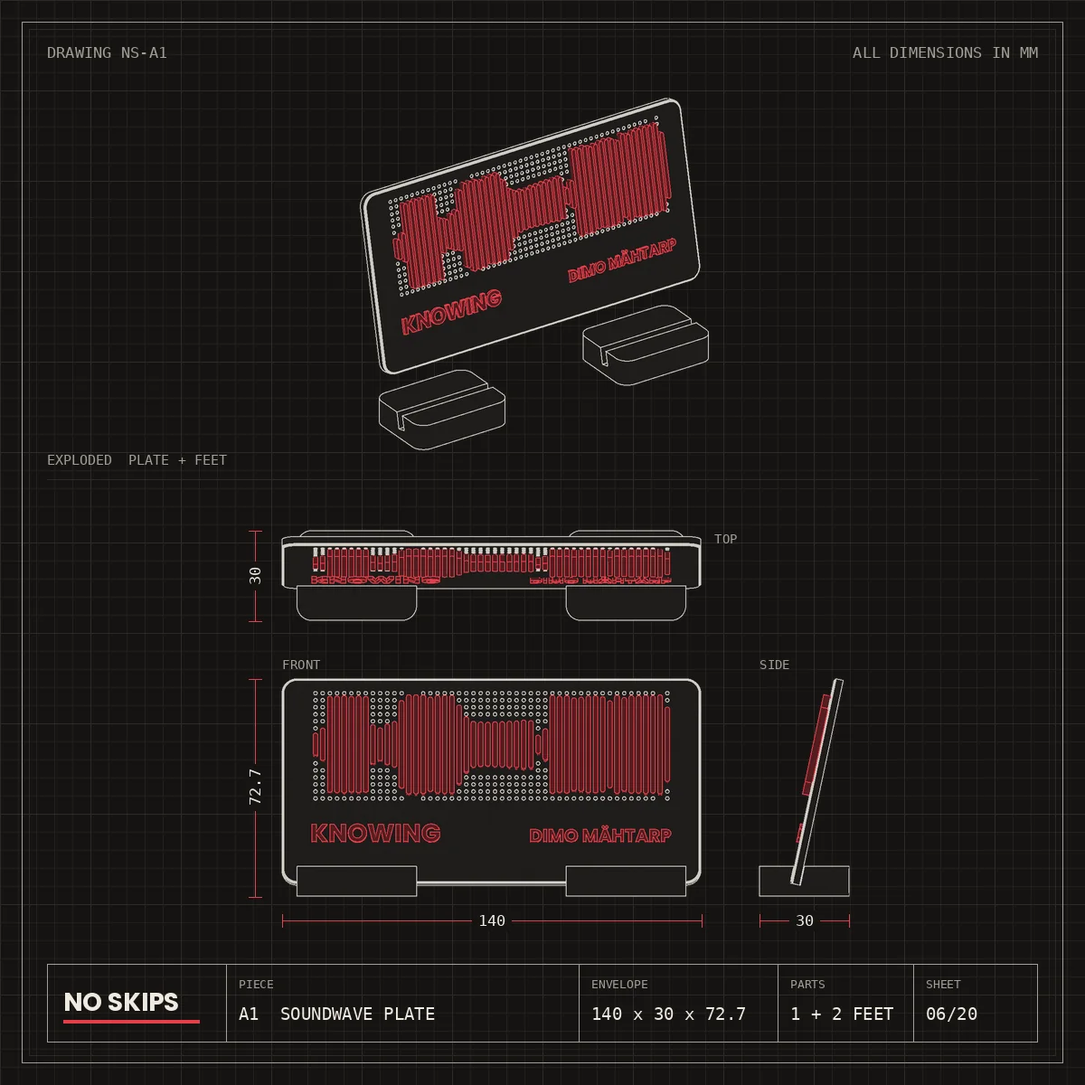
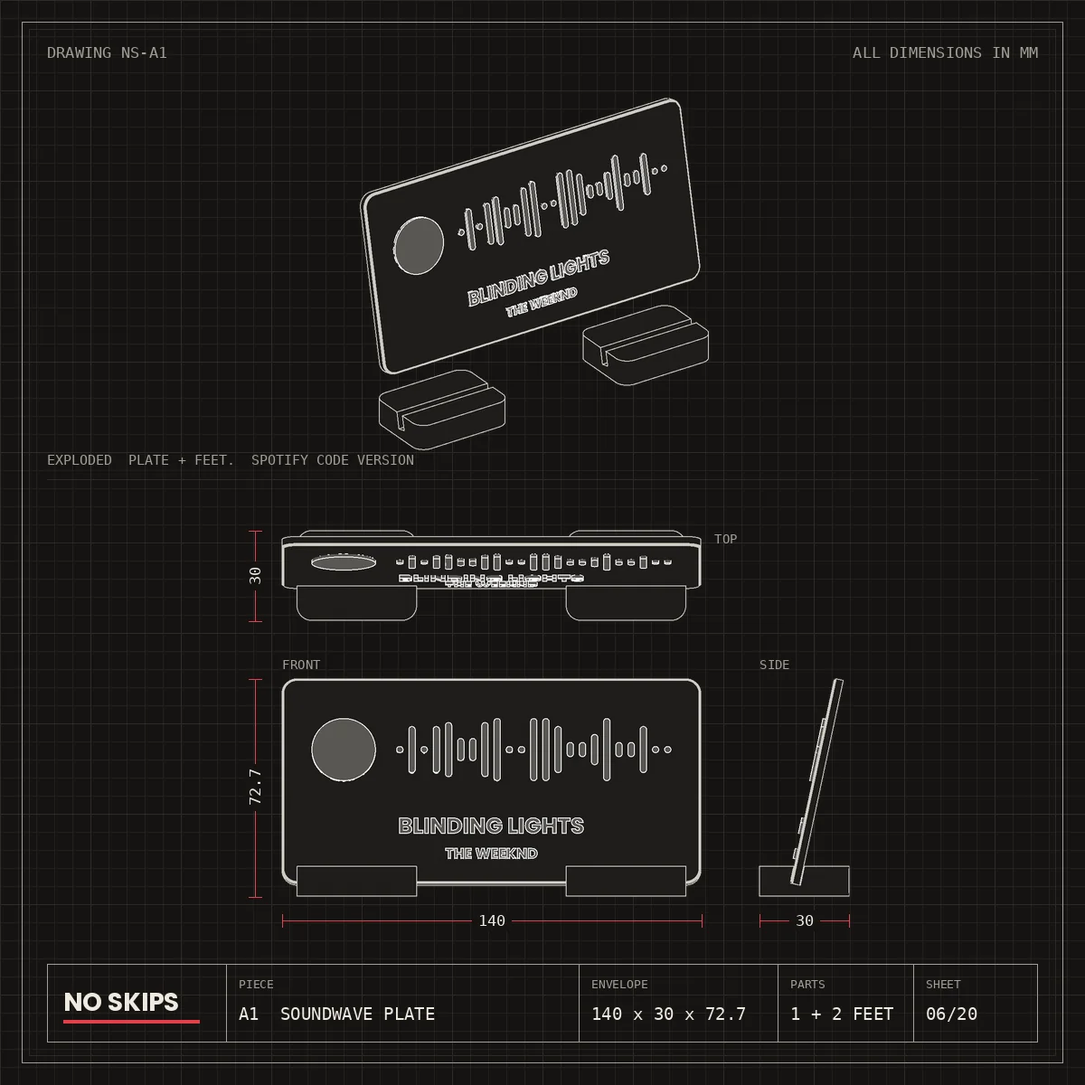
Spotify Code option for Soundwave Plate and Song Tag, terms page, form fixes
- A1 and A5: choose Spotify Code (default) or sound wave, with an explainer
- Song Tag now 80 x 30 mm: code or wave on the front, song and artist or own name on the back, live character limits
- Personalised fields start empty with examples as placeholders; order is blocked until filled and valid
- Terms dialog with 48-hour replacement window, grievance contact, privacy; agreement tick before ordering
- Fix: elements with the hidden attribute (gift note) were still shown
- New renders and blueprints for A1 and A5

Claude-Session: https://claude.ai/code/session_012J3bj3tc8WhaTG95FXikk2

diff --git a/index.html b/index.html
@@ -220,6 +220,8 @@ footer .row{display:flex;justify-content:space-between;gap:16px;flex-wrap:wrap}
 .pv .pa{fill:var(--pa)}
 .pv .pas{fill:none;stroke:var(--pa)}
 .pv .pn{fill:var(--p-neutral)}
+.pv .piv{fill:var(--p-ivory)}
+.pv text.piv{fill:var(--p-ivory)}
 .pv .pns{fill:none;stroke:var(--p-neutral)}
 .pv .pd{fill:var(--p-dot);opacity:.55}
 .pv .hole{fill:var(--stage)}
@@ -266,7 +268,25 @@ dialog::backdrop{background:rgba(8,7,6,.66)}
 .terms{display:grid;grid-template-columns:repeat(auto-fit,minmax(220px,1fr));gap:20px;margin-top:clamp(28px,4vw,44px);border-top:1px solid var(--line);padding-top:24px}
 .terms h3{font-size:15px;font-stretch:112%;margin-bottom:8px}
 .terms p{margin:0;font-size:14px;color:var(--muted)}
+[hidden]{display:none!important}
 .note{font-size:12px;color:var(--muted);margin:0}
+.field .note{margin-top:2px}
+.flabel{display:flex;justify-content:space-between;gap:10px;align-items:baseline}
+.cnt{font-family:var(--mono);font-size:11px;color:var(--muted)}
+.cnt.over{color:#E5404A;font-weight:700}
+.field input.bad{border-color:#E5404A}
+.warn{font-size:13px;line-height:1.45;color:#E5404A;margin:0;padding:10px 12px;border:1px solid #E5404A;border-radius:8px}
+.hintbtn{background:none;border:0;padding:0;font-size:13px;text-decoration:underline;text-underline-offset:3px;color:var(--ink);cursor:pointer;align-self:flex-start}
+.hintbox{font-size:13px;line-height:1.5;color:var(--ink);background:var(--surface);border:1px solid var(--line);border-radius:10px;padding:12px 14px;display:grid;gap:8px}
+.hintbox p{margin:0}.hintbox b{font-weight:700}
+.agree{display:flex;gap:10px;align-items:flex-start;font-size:13px;line-height:1.45;cursor:pointer}
+.agree input{margin-top:3px;width:16px;height:16px;flex:none}
+.agree button{background:none;border:0;padding:0;font:inherit;text-decoration:underline;text-underline-offset:3px;color:inherit;cursor:pointer}
+.btn[aria-disabled="true"],.btn:disabled{opacity:.42;pointer-events:none}
+.tc{padding:clamp(22px,4vw,40px);max-width:760px;margin:0 auto;position:relative}
+.tc h2{margin:0 0 6px}.tc .upd{font-family:var(--mono);font-size:11px;color:var(--muted);margin:0 0 18px}
+.tc h3{font-size:15px;margin:22px 0 6px}.tc p,.tc li{font-size:14px;line-height:1.6;color:var(--ink)}.tc ul{padding-left:18px;margin:6px 0}
+.tc .close{position:sticky;top:0;float:right}
 .linkish{background:none;border:0;padding:0;text-decoration:underline;text-underline-offset:3px;font-size:14px;align-self:flex-start}
 @media (max-width:760px){.pd-grid{grid-template-columns:1fr}.pd-stage{min-height:0}}
 #list{margin:0 0 0 auto;height:100dvh;max-height:100dvh;width:min(440px,100vw);border-radius:0}
@@ -402,13 +422,13 @@ dialog::backdrop{background:rgba(8,7,6,.66)}
     <h2>How to order</h2>
     <ol class="steps">
       <li><h3>Pick your pieces</h3><p>Open a product, add your song, name or date, and choose an ivory or red accent.</p></li>
-      <li><h3>Send it on WhatsApp</h3><p>One tap opens WhatsApp with your order already written out. For song pieces, share the track or a link in the chat.</p></li>
+      <li><h3>Send it on WhatsApp</h3><p>One tap opens WhatsApp with your order already written out. For song pieces, the song title and artist, or the Spotify link, go in the message.</p></li>
       <li><h3>Approve and pay</h3><p>Personalised pieces get a preview before anything is printed. Payment is by UPI.</p></li>
       <li><h3>Printed, numbered, shipped</h3><p>Every piece is printed to order in Bengaluru. The code on the box opens the build steps. Shipping is quoted in the chat.</p></li>
     </ol>
     <div class="terms" id="terms">
       <div><h3>Shipping and packing</h3><p>Every order ships in a No Skips box with tissue and a build card. Pieces in one order share a box. Shipping is charged on top and quoted in the chat with the dispatch date.</p></div>
-      <div><h3>Replacements, not returns</h3><p>Pieces are made to order, so we do not take returns. If something arrives damaged or with a print fault, we replace it.</p></div>
+      <div><h3>Replacements within 48 hours</h3><p>Pieces are made to order, so we do not take returns. If something arrives broken, faulty or not as approved, message us within 48 hours of delivery with photos and an unboxing video and we replace it. <button class="linkish" type="button" data-terms>Read the full terms</button></p></div>
       <div><h3>Checked before it ships</h3><p>Every personalised piece is reviewed by hand against your order, and you see the preview before it is printed.</p></div>
       <div><h3>Not a toy</h3><p>Small parts. Keep away from children under 3.</p></div>
     </div>
@@ -424,8 +444,8 @@ dialog::backdrop{background:rgba(8,7,6,.66)}
 
 <footer>
   <div class="wrap">
-    <div class="row"><span>No Skips. Printed to order in Bengaluru.</span><span>Instagram @cassettebydimo</span><span>Prices in INR, shipping extra.</span></div>
-    <div class="row" style="margin-top:10px"><span>Product pictures and blueprints are drawn from the actual print files, dimensions in millimetres. Song titles and artist names on example pieces show how personalisation looks. No Skips is an independent maker and is not affiliated with or endorsed by any artist. Artist names and silhouettes on coins and tags are used to show the artist the piece is about, and are not an endorsement.</span></div>
+    <div class="row"><span>No Skips. Printed to order in Bengaluru.</span><span>Instagram @cassettebydimo</span><span>Prices in INR, shipping extra.</span><span><button class="linkish" type="button" data-terms>Terms, replacements and privacy</button></span></div>
+    <div class="row" style="margin-top:10px"><span>Product pictures and blueprints are drawn from the actual print files, dimensions in millimetres. Song titles and artist names on example pieces show how personalisation looks. No Skips is an independent maker and is not affiliated with or endorsed by any artist. Artist names and silhouettes on coins and tags are used to show the artist the piece is about, and are not an endorsement. Spotify and Spotify Codes are trademarks of Spotify AB. No Skips is not affiliated with Spotify.</span></div>
   </div>
 </footer>
 
@@ -436,6 +456,7 @@ dialog::backdrop{background:rgba(8,7,6,.66)}
 
 <dialog id="pd" aria-labelledby="pdName"></dialog>
 <dialog id="list" aria-labelledby="listTitle"></dialog>
+<dialog id="tcd" aria-labelledby="tcTitle"></dialog>
 
 <script>
 /* ---------------- settings: edit these ---------------- */
@@ -463,6 +484,37 @@ const up=s=>esc(String(s).toUpperCase());
 const pad2=n=>String(n).padStart(2,"0");
 const $=id=>document.getElementById(id);
 
+/* ---------------- Spotify Code stand-in for previews. The real code is made by Spotify for each order. ---------------- */
+function codeLevels(seed){let h=2166136261>>>0;const out=[];for(let i=0;i<23;i++){for(const ch of String(seed)+"#"+i){h^=ch.charCodeAt(0);h=Math.imul(h,16777619)>>>0}out.push(h%8)}out[0]=0;out[11]=7;out[22]=0;return out}
+function codeArt(seed,cx,cy,w,cls){const k=w/339,x0=cx-w/2-20*k;let s=`<circle class="${cls}" cx="${(x0+50*k).toFixed(2)}" cy="${cy.toFixed(2)}" r="${(30*k).toFixed(2)}"/>`;
+  codeLevels(seed).forEach((l,i)=>{const h=(6+54*l/7)*k,bw=6*k;s+=`<rect class="${cls}" x="${(x0+(103+i*11.5)*k-bw/2).toFixed(2)}" y="${(cy-h/2).toFixed(2)}" width="${bw.toFixed(2)}" height="${h.toFixed(2)}" rx="${(bw/2).toFixed(2)}"/>`});return s}
+
+/* ---------------- field rules: what must be filled, what fits, what we can print ---------------- */
+const fo=f=>f[2]||{};
+const isOpt=f=>!!fo(f).opt||/\(optional\)/i.test(f[0]);
+const isLink=f=>/link/i.test(f[0]);
+const showF=(f,c)=>{const v=fo(f).show;return !v||v===c.mode||v===c.back};
+const LIMITS={plate:{code:{0:40,1:40},wave:{0:40,1:40}},tag:{song:{0:18,1:18},name:{3:14}}};
+const limitsFor=(p,c)=>p.song==="plate"?LIMITS.plate[c.mode]:p.song==="tag"?LIMITS.tag[c.back]:{};
+const PRINTABLE=/^[A-Za-z\u00C0-\u00D6\u00D8-\u00F6\u00F8-\u00FF0-9 .,'&!?()\-]*$/;
+const SPOTIFY_LINK=/^(https?:\/\/)?(open\.spotify\.com\/(intl-[a-z-]+\/)?track\/[A-Za-z0-9]{10,}|spotify\.link\/[A-Za-z0-9]+)|^spotify:track:[A-Za-z0-9]{10,}/;
+const printedIdx=(p,c)=>p.f.map((f,i)=>i).filter(i=>showF(p.f[i],c)&&!isLink(p.f[i])&&!(p.song==="tag"&&c.back==="name"&&i<2));
+function missing(p,c){return p.custom?p.f.filter((f,i)=>showF(f,c)&&!isOpt(f)&&!c.vals[i]).map(f=>{const l=f[0].replace(/ for the back/,"").toLowerCase();return /^(your|line) /.test(l)?l:"the "+l}):[]}
+function problems(p,c){
+  const out=[],lim=limitsFor(p,c)||{};
+  p.f.forEach((f,i)=>{const v=c.vals[i]||"";if(!showF(f,c)||!v)return;
+    if(lim[i]&&v.length>lim[i])out.push(`${f[0].replace(/ for the back/,"")} is ${v.length} characters and fits ${lim[i]}. Shorten it${p.song==="tag"&&c.back==="song"?", or choose Your name for the back of the tag":""}.`);});
+  printedIdx(p,c).forEach(i=>{const v=c.vals[i]||"";if(v&&!PRINTABLE.test(v))out.push(`${p.f[i][0].replace(/ for the back/,"")}: we can print letters (accents are fine), numbers, spaces and . , ' & ! ? ( ) -. Please remove the other characters.`)});
+  p.f.forEach((f,i)=>{const v=c.vals[i]||"";if(isLink(f)&&showF(f,c)&&v&&!SPOTIFY_LINK.test(v))out.push("That does not look like a Spotify song link. It should start with https://open.spotify.com/track/. Leave it empty if you are not sure.")});
+  return out;
+}
+const TERMS_DATE="14 November 2026";
+let agreed=false;try{agreed=sessionStorage.getItem("ns-agree")==="1"}catch(e){}
+const agreeBox=id=>`<label class="agree" for="${id}"><input type="checkbox" id="${id}" data-agree ${agreed?"checked":""}><span>I agree to the <button type="button" data-terms>Terms</button>, including replacements only within 48 hours of delivery.</span></label>`;
+const HINT=tag=>`<p><b>Spotify Code.</b> The bars are a code Spotify makes for your song. Open the Spotify app, tap Search, then the camera icon, and point it at the ${tag?"tag":"plate"}. The song starts playing. It scans only in the Spotify app and only for songs on Spotify. It is printed ivory on black so phones can read it.</p>
+  <p><b>Sound wave.</b> The real shape of your song: its loud and quiet parts from start to finish, as raised bars. It does not scan, but it works for any song, even one that is not on Spotify, like your own unreleased track.</p>
+  <p>Not sure your song is on Spotify? Choose Spotify Code anyway. If we cannot find it, we tell you in the chat before printing and make the sound wave instead.</p>${tag?"<p>The back is printed in your accent colour.</p>":""}`;
+
 /* ---------------- drawings: live preview for personalised pieces ---------------- */
 function bars(data,x,cy,pitch,w,maxH,minH,cls){
   return data.map((v,i)=>{const h=minH+(maxH-minH)*v;
@@ -489,8 +541,10 @@ function tag(o,big){
 }
 const ART={
   plate(o){
-    return shadow(160,196,128)+`<rect class="pb" x="62" y="180" width="68" height="14" rx="5"/><rect class="pb" x="190" y="180" width="68" height="14" rx="5"/>`
-      +body(40,58,240,126,9)+dots(59.3,76.3,50,8,4.11,8.2,1)
+    const feet=shadow(160,196,128)+`<rect class="pb" x="62" y="180" width="68" height="14" rx="5"/><rect class="pb" x="190" y="180" width="68" height="14" rx="5"/>`;
+    if(o.mode==="code")return feet+body(40,58,240,126,9)+codeArt(o.t1+"|"+o.t2,160,102,205.7,"piv")
+      +`<text class="piv" x="160" y="153" text-anchor="middle" font-size="${fit(o.t1,12.5,200)}">${up(o.t1)}</text><text class="piv" x="160" y="169" text-anchor="middle" font-size="${fit(o.t2,8.2,190)}">${up(o.t2)}</text>`;
+    return feet+body(40,58,240,126,9)+dots(59.3,76.3,50,8,4.11,8.2,1)
       +bars(W50,59.3,105,4.11,2.74,58,4.1,"pa")
       +`<text x="57" y="164" font-size="${fit(o.t1,11.5,112)}">${up(o.t1)}</text><text x="263" y="164" text-anchor="end" font-size="${fit(o.t2,7.4,96)}">${up(o.t2)}</text>`;
   },
@@ -535,7 +589,15 @@ const ART={
       ${bars(W20.slice(3,14),-40,36,8,5,15,4,"pa")}<text text-anchor="middle" y="54" font-size="5.6" opacity=".8">NO. 01</text></g>`;
     return shadow(88,186,60)+shadow(232,186,60)+A+B;
   },
-  songtag(o){return tag(o,true)},
+  songtag(o){
+    const X=28,k=3.3,Y1=8,Y2=114,cy1=Y1+15*k,cy2=Y2+15*k,cx=X+33.5*k;
+    let r=body(X,Y1,264,99,16)+`<circle class="hole" cx="${X+8.5*k}" cy="${cy1}" r="${3.4*k}"/>`
+      +(o.mode==="wave"?bars(W20,X+18*k,cy1,3*k,1.8*k,17*k,2.4*k,"pa"):codeArt(o.t1+"|"+o.t2,X+46.5*k,cy1,60*k,"piv"));
+    r+=body(X,Y2,264,99,16)+`<circle class="hole" cx="${X+71.5*k}" cy="${cy2}" r="${3.4*k}"/>`;
+    if(o.back==="name")r+=`<text x="${cx}" y="${cy2+8}" text-anchor="middle" font-size="${fit(o.name,23,198)}">${up(o.name)}</text>`;
+    else r+=`<text x="${cx}" y="${Y2+10.4*k+6}" text-anchor="middle" font-size="${fit(o.t1,17,198)}">${up(o.t1)}</text><text x="${cx}" y="${Y2+19.6*k+5.6}" text-anchor="middle" font-size="${fit(o.t2,16,198)}">${up(o.t2)}</text>`;
+    return r;
+  },
   nametag(o){return tag(o)},
   sign(o){
     return shadow(160,186,116)+`<rect class="pb" x="74" y="168" width="60" height="14" rx="5"/><rect class="pb" x="186" y="168" width="60" height="14" rx="5"/>`+body(40,62,240,110,9)
@@ -572,10 +634,12 @@ const P=[
   desc:"A fluted amp knob on a puck with eleven level marks. It clicks onto a printed post and spins freely. For queues, long renders and calls that could have been an email.",
   size:"44 mm base, 27 mm knob, 20 mm tall",f:[],imgs:[["knob","Red and ivory"],["knob_build","Cap and base"]]},
 
- {id:"A1",side:"A",name:"Soundwave Plate",price:1799,art:"plate",custom:true,line:"Your song as a desk piece",badge:"Signature",build:"plate",
-  desc:"The loudness of your track from first second to last, printed as 50 raised bars on a matte plate. Every quiet intro and every drop is there to see.",
-  size:"140 x 70 x 3 mm plate, two feet",f:[["Song title","Blinding Lights"],["Name or artist line","The Weeknd"]],extra:"Share the track or a link in the chat.",
-  imgs:[["plate","On its feet"],["plate_build","Plate and feet"]]},
+ {id:"A1",side:"A",name:"Soundwave Plate",price:1799,art:"plate",custom:true,song:"plate",line:"Your song as a desk piece, scan it or see it",badge:"Signature",build:"plate",
+  desc:"Your song on a matte black plate, two ways. As its Spotify Code: open the Spotify app, scan the plate and the song starts playing. Or as its sound wave: the loud and quiet parts of the track from first second to last, in 50 raised bars. The title and artist sit underneath.",
+  size:"140 x 70 x 3 mm plate, two feet",
+  f:[["Song title","Blinding Lights",{max:60}],["Artist name","The Weeknd",{max:60,note:{code:"Spell both exactly as they appear on Spotify. We find your song with these words, so a typo can mean the wrong song.",wave:"Spell both exactly. We build the wave from this song. For your own unreleased track, send the audio file in the chat."}}],
+     ["Spotify song link (optional)","",{max:300,opt:1,show:"code",ph:"https://open.spotify.com/track/...",note:{code:"The surest way to get the exact version. In Spotify: Share, then Copy song link."}}]],
+  imgs:[["plate","Spotify Code"],["plate_wave","Sound wave"],["plate_build","Plate and feet"]]},
  {id:"A2",side:"A",name:"Now Playing Plaque",price:1199,art:"plaque",custom:true,line:"A song that never skips",build:"plaque",
   desc:"A standing plaque styled like a music player, frozen on the one track that matters. The plate drops into its base, no glue.",
   size:"70 x 110 x 3 mm, slot base",f:[["Song title","Delilah"],["Artist","Fred again.."]],
@@ -587,9 +651,13 @@ const P=[
  {id:"A4",side:"A",name:"Record Coasters",price:1199,line:"Set of four, grooves included",
   desc:"Coasters with real printed grooves, a coloured centre label and a ribbed underside. Made for cold drinks and desk duty. A mug straight off the boil is too hot for them.",
   size:"90 mm across, 4 mm thick, set of 4",f:[],imgs:[["coasters","Stack of four"]]},
- {id:"A5",side:"A",name:"Song Tag",price:449,art:"songtag",custom:true,line:"Your song on your bag",build:"tag",
-  desc:"A tag carrying the waveform of your track in twenty bars, with the title underneath. It hangs from a printed loop that locks with a twist, so there is no metal ring.",
-  size:"70 x 30 x 3 mm, printed loop",f:[["Song title","Starboy"]],extra:"Share the track or a link in the chat.",imgs:[["songtag","Tag and loop"]]},
+ {id:"A5",side:"A",name:"Song Tag",price:549,art:"songtag",custom:true,song:"tag",line:"Your song on your bag, scan it from the strap",build:"tag",
+  desc:"A tag for your bag or keys. The front carries your song's Spotify Code, which plays the song when scanned in the Spotify app, or its sound wave. The back carries the song and artist, or your own name. It hangs from a printed loop that locks with a twist, so there is no metal ring.",
+  size:"80 x 30 x 3 mm, printed loop",
+  f:[["Song title","Starboy",{max:60}],["Artist name","The Weeknd",{max:60,note:{code:"Spell both exactly as they appear on Spotify. We find your song with these words.",wave:"Spell both exactly. We build the wave from this song."}}],
+     ["Spotify song link (optional)","",{max:300,opt:1,show:"code",ph:"https://open.spotify.com/track/...",note:{code:"The surest way to get the exact version. In Spotify: Share, then Copy song link."}}],
+     ["Your name for the back","Dimo",{max:40,show:"name"}]],
+  imgs:[["songtag","Code side and loop"],["songtag_sides","Front and back"]]},
 
  {id:"B1",side:"B",name:"Pick Amp",price:1399,line:"Pick holder with a drawer",badge:"Build it yourself",build:"amp",
   desc:"A small amp for the desk that you build yourself in a few minutes. Picks stand in the top slot, spares and a capo go in the drawer. Five parts, no glue.",
@@ -727,12 +795,17 @@ function itemText(it,n){
   if(it.pick)s+=`\n   ${p.pick[0]}: ${it.pick}`;
   if(it.accent)s+=`\n   Accent: ${it.accent}`;
   if(it.gift)s+=`\n   Gift: yes${it.giftNote?". Note on the card: "+it.giftNote:""}`;
-  it.vals.forEach((v,i)=>{if(v)s+=`\n   ${p.f[i][0]}: ${v}`});return s;
+  if(p.song)s+=`\n   Style: ${it.mode==="wave"?"Sound wave":"Spotify Code"}`;
+  if(p.song==="tag")s+=`\n   Back of the tag: ${it.back==="name"?"Your name":"Song and artist"}`;
+  it.vals.forEach((v,i)=>{if(v&&p.f[i]&&showF(p.f[i],it))s+=`\n   ${p.f[i][0]}: ${v}`});return s;
 }
-const sign=items=>items.some(it=>P.find(p=>p.id===it.id).custom)?"Please share the preview and payment details.":"Please share the payment details.";
+const sign=items=>(items.some(it=>P.find(p=>p.id===it.id).custom)?"Please share the preview and payment details.":"Please share the payment details.")
+  +`\n\nI have read and agree to the No Skips Terms (${TERMS_DATE}), including replacements only within 48 hours of delivery.`;
 function openProduct(id){
   const p=P.find(x=>x.id===id);if(!p)return;
-  cur={id,qty:1,accent:p.noAccent?"":"red",vals:p.f.map(f=>f[1]),pick:p.pick?p.pick[1][0]:"",gift:false,giftNote:""};
+  cur={id,qty:1,accent:p.noAccent?"":(p.song==="plate"?"ivory":"red"),vals:p.f.map(()=>""),pick:p.pick?p.pick[1][0]:"",gift:false,giftNote:"",mode:p.song?"code":"",back:p.song==="tag"?"song":"",prevAccent:"red"};
+  const fieldHtml=(f,i)=>`<div class="field" id="fw${i}"><div class="flabel"><label for="f${i}">${esc(f[0])}</label><span class="cnt" id="fc${i}" aria-live="polite"></span></div><input id="f${i}" data-i="${i}" maxlength="${fo(f).max||(f[0].startsWith("Four")?120:28)}" placeholder="${esc(fo(f).ph||f[1])}" autocomplete="off"${isLink(f)?' type="url" inputmode="url"':""}${isOpt(f)?"":' aria-required="true"'}><p class="note" id="fn${i}" hidden></p></div>`;
+  const split=p.song==="tag"?3:p.f.length;
   const slides=(p.art?`<div class="slide" id="pdArt"></div>`:"")+p.imgs.map(m=>`<div class="slide"><img src="${img(m[0])}" alt="${esc(p.name)}, ${esc(m[1].toLowerCase())}" width="880" height="880"><span class="mono cap">${esc(m[1])}</span></div>`).join("")
     +`<div class="slide"><img src="${img("bp_"+p.id)}" alt="${esc(p.name)}, blueprint with dimensions in millimetres" width="1200" height="1200"><span class="mono cap">Blueprint</span></div>`;
   const n=p.imgs.length+(p.art?1:0)+1;
@@ -745,10 +818,15 @@ function openProduct(id){
       <div class="pd-price">${inr(p.price)}${p.badge?`<span class="badge hot">${esc(p.badge)}</span>`:""}</div>
       ${p.ed?`<div class="pd-ed"><i class="led"></i>${esc(p.ed)}${p.id==="C1"&&DROP.claimed?`. ${DROP.total-DROP.claimed} left`:""}</div>`:""}
       <p class="pd-desc">${esc(p.desc)}</p>
-      ${p.f.map((f,i)=>`<div class="field"><label for="f${i}">${esc(f[0])}</label><input id="f${i}" data-i="${i}" maxlength="${f[0].startsWith("Four")?120:28}" value="${esc(f[1])}" autocomplete="off"></div>`).join("")}
+      ${p.song?`<div class="field"><span class="lab">Style</span><div class="seg"><button type="button" data-mode="code" aria-pressed="false">Spotify Code</button><button type="button" data-mode="wave" aria-pressed="false">Sound wave</button></div>
+        <button class="hintbtn" type="button" data-hint aria-expanded="false" aria-controls="hintBox">What is the difference?</button><div class="hintbox" id="hintBox" hidden>${HINT(p.song==="tag")}</div></div>`:""}
+      ${p.f.slice(0,split).map(fieldHtml).join("")}
+      ${p.song==="tag"?`<div class="field"><span class="lab">Back of the tag</span><div class="seg"><button type="button" data-back="song" aria-pressed="false">Song and artist</button><button type="button" data-back="name" aria-pressed="false">Your name</button></div>
+        <p class="note">Song and artist fit 18 characters each, your name fits 14, spaces included.</p></div>`:""}
+      ${p.f.slice(split).map((f,j)=>fieldHtml(f,j+split)).join("")}
       ${p.pick?`<div class="field"><span class="lab">${esc(p.pick[0])}</span><div class="seg">${p.pick[1].map(o=>`<button type="button" data-pick="${esc(o)}" aria-pressed="false">${esc(o)}</button>`).join("")}</div></div>`:""}
       <div class="row2">
-        ${p.noAccent?"":`<div class="field"><span class="lab">Accent colour</span><div class="seg">
+        ${p.noAccent?"":`<div class="field" id="accField"><span class="lab">Accent colour</span><div class="seg">
           <button type="button" data-accent="red" aria-pressed="false"><i style="background:var(--p-red)"></i>Red</button>
           <button type="button" data-accent="ivory" aria-pressed="false"><i style="background:var(--p-ivory)"></i>Ivory</button></div></div>`}
         <div class="field"><span class="lab">Quantity</span><div class="qty"><button type="button" data-q="-1" aria-label="One fewer">&minus;</button><output id="qOut">1</output><button type="button" data-q="1" aria-label="One more">+</button></div></div>
@@ -757,11 +835,11 @@ function openProduct(id){
         <div class="field" id="giftBox" hidden><label for="giftNote">Short note for the card (optional)</label><input id="giftNote" data-gift="note" maxlength="90" placeholder="Happy birthday. Play it loud." autocomplete="off"></div></div>
       ${(()=>{const k=stk(p.id);
         if(k.s==="out")return `<p class="stockline out">Sold out right now</p><a class="btn red block" id="pdOrder" target="_blank" rel="noopener" href="${esc(wa(`Hi ${BRAND}, please tell me when ${p.name} is back in stock.`))}">Notify me on WhatsApp</a>`;
-        return (k.s==="low"?`<p class="stockline">${k.n?`Only ${k.n} left`:"Few left"}</p>`:"")+`<a class="btn red block" id="pdOrder" target="_blank" rel="noopener" href="#">Order on WhatsApp</a>
+        return (k.s==="low"?`<p class="stockline">${k.n?`Only ${k.n} left`:"Few left"}</p>`:"")+`<p class="warn" id="pdWarn" role="alert" hidden></p><p class="note" id="pdNeed" hidden></p>${agreeBox("agreePd")}<a class="btn red block" id="pdOrder" target="_blank" rel="noopener" href="#">Order on WhatsApp</a>
       <button class="btn ghost block" type="button" id="pdAdd">Add to order list</button>`})()}
       ${p.extra?`<p class="note">${esc(p.extra)}</p>`:""}
       ${p.build?`<button class="linkish" type="button" data-gobuild="${p.build}">See how it builds, ${esc(BUILD[p.build].time)}</button>`:""}
-      <dl class="specs"><dt>Size</dt><dd>${esc(p.size)}</dd><dt>In the box</dt><dd>Printed parts only. Matte PLA bioplastic, no magnets, glue or metal. Keep away from hot cars and direct summer sun.</dd><dt>Care</dt><dd>Not a toy. Small parts, keep away from children under 3.</dd><dt>Made</dt><dd>Printed to order in Bengaluru. Replacements, no returns.</dd></dl>
+      <dl class="specs"><dt>Size</dt><dd>${esc(p.size)}</dd><dt>In the box</dt><dd>Printed parts only. Matte PLA bioplastic, no magnets, glue or metal. Keep away from hot cars and direct summer sun.</dd><dt>Care</dt><dd>Not a toy. Small parts, keep away from children under 3.</dd><dt>Made</dt><dd>Printed to order in Bengaluru. No returns. Replacement if it arrives broken, faulty or not as approved, reported within 48 hours of delivery. <button class="linkish" type="button" data-terms>Terms</button></dd></dl>
     </div></div>`;
   syncProduct();$("pd").showModal();
   const car=$("car"),dd=$("carDots");
@@ -769,14 +847,31 @@ function openProduct(id){
 }
 function syncProduct(){
   const p=P.find(x=>x.id===cur.id),d=defaults(p);
-  if(p.art){const o={t1:cur.vals[0]||d.t1,t2:p.f.length>1?(cur.vals[1]||(p.art==="nametag"?"":d.t2)):d.t2};$("pdArt").innerHTML=draw(p,o,cur.accent||"red")}
+  if(p.art){const o={t1:cur.vals[0]||d.t1,t2:p.f.length>1?(cur.vals[1]||(p.art==="nametag"?"":d.t2)):d.t2,mode:cur.mode,back:cur.back,name:cur.vals[3]||(p.f[3]?p.f[3][1]:"")};$("pdArt").innerHTML=draw(p,o,cur.accent||"red")}
+  const pd=$("pd"),lim=limitsFor(p,cur)||{};
+  pd.querySelectorAll("[data-mode]").forEach(b=>b.setAttribute("aria-pressed",String(b.dataset.mode===cur.mode)));
+  pd.querySelectorAll("[data-back]").forEach(b=>b.setAttribute("aria-pressed",String(b.dataset.back===cur.back)));
+  p.f.forEach((f,i)=>{const w=$("fw"+i);if(!w)return;w.hidden=!showF(f,cur);
+    const n=fo(f).note,nt=n?(typeof n==="string"?n:(n[cur.mode]||"")):"";$("fn"+i).hidden=!nt;$("fn"+i).textContent=nt;
+    const v=cur.vals[i]||"",L=lim[i],c=$("fc"+i);c.textContent=L?`${v.length}/${L}`:"";c.classList.toggle("over",!!L&&v.length>L);
+    $("f"+i).classList.toggle("bad",(!!L&&v.length>L)||(!!v&&printedIdx(p,cur).includes(i)&&!PRINTABLE.test(v))||(isLink(f)&&!!v&&!SPOTIFY_LINK.test(v)))});
+  if($("accField"))$("accField").hidden=p.song==="plate"&&cur.mode==="code";
   $("pd").querySelectorAll("[data-accent]").forEach(b=>b.setAttribute("aria-pressed",String(b.dataset.accent===cur.accent)));
   $("pd").querySelectorAll("[data-pick]").forEach(b=>b.setAttribute("aria-pressed",String(b.dataset.pick===cur.pick)));
   $("qOut").textContent=cur.qty;
-  if(stk(p.id).s!=="out")$("pdOrder").href=wa(`Hi ${BRAND}, I would like to order:\n\n${itemText(cur)}\n\n${sign([cur])}`);
+  if(stk(p.id).s!=="out"){
+    const probs=problems(p,cur),miss=missing(p,cur),ok=!probs.length&&!miss.length&&agreed;
+    $("pdWarn").hidden=!probs.length;$("pdWarn").innerHTML=probs.map(esc).join("<br>");
+    const need=[miss.length?`Fill in ${miss.join(" and ")} to order.`:"",!agreed?"Tick the box to agree to the Terms.":""].filter(Boolean).join(" ");
+    $("pdNeed").hidden=!need||!!probs.length;$("pdNeed").textContent=need;
+    const o=$("pdOrder");o.href=ok?wa(`Hi ${BRAND}, I would like to order:\n\n${itemText(cur)}\n\n${sign([cur])}`):"#";
+    o.setAttribute("aria-disabled",String(!ok));o.tabIndex=ok?0:-1;$("pdAdd").disabled=!(!probs.length&&!miss.length);
+  }
 }
 $("pd").addEventListener("input",e=>{if(e.target.dataset.i!==undefined){cur.vals[+e.target.dataset.i]=e.target.value.trim();syncProduct()}
   if(e.target.dataset.gift==="note"){cur.giftNote=e.target.value.trim();syncProduct()}});
+document.addEventListener("change",e=>{if(e.target.hasAttribute&&e.target.hasAttribute("data-agree")){agreed=e.target.checked;try{sessionStorage.setItem("ns-agree",agreed?"1":"0")}catch(_){}
+  document.querySelectorAll("[data-agree]").forEach(x=>{x.checked=agreed});if($("pd").open&&cur)syncProduct();if($("list").open)paintListSend()}});
 $("pd").addEventListener("change",e=>{if(e.target.dataset.gift==="tick"){cur.gift=e.target.checked;$("giftBox").hidden=!cur.gift;if(!cur.gift){cur.giftNote="";$("giftNote").value=""}syncProduct()}});
 $("pd").addEventListener("click",e=>{
   const t=e.target.closest("button");
@@ -784,6 +879,9 @@ $("pd").addEventListener("click",e=>{
   if(!t)return;
   if(t.dataset.car){const car=$("car");car.scrollBy({left:+t.dataset.car*car.clientWidth,behavior:"smooth"})}
   if(t.dataset.accent){cur.accent=t.dataset.accent;syncProduct()}
+  if(t.dataset.mode){const p=P.find(x=>x.id===cur.id);if(p.song==="plate"&&t.dataset.mode!==cur.mode){if(t.dataset.mode==="code"){cur.prevAccent=cur.accent;cur.accent="ivory"}else cur.accent=cur.prevAccent||"red"}cur.mode=t.dataset.mode;syncProduct()}
+  if(t.dataset.back){cur.back=t.dataset.back;syncProduct()}
+  if(t.hasAttribute("data-hint")){const h=$("hintBox");h.hidden=!h.hidden;t.setAttribute("aria-expanded",String(!h.hidden))}
   if(t.dataset.pick){cur.pick=t.dataset.pick;syncProduct()}
   if(t.dataset.q){cur.qty=Math.max(1,Math.min(99,cur.qty+ +t.dataset.q));syncProduct()}
   if(t.dataset.gobuild){$("pd").close();showBuild(t.dataset.gobuild,true)}
@@ -798,19 +896,41 @@ function renderList(){
   const msg=`Hi ${BRAND}, I would like to order:\n\n${cart.map((it,i)=>itemText(it,i+1)).join("\n")}\n\nTotal before shipping: ${inr(total)}\n${sign(cart)}`;
   $("list").innerHTML=`<div class="dl"><button class="close" type="button" aria-label="Close" data-close>&times;</button>
     <h2 id="listTitle">Order list</h2>
-    ${cart.length?cart.map((it,i)=>{const p=P.find(x=>x.id===it.id);const opts=[it.pick,it.accent&&("Accent "+it.accent),it.gift&&("Gift"+(it.giftNote?": "+it.giftNote:"")),...it.vals.filter(Boolean)].filter(Boolean).join(", ");
+    ${cart.length?cart.map((it,i)=>{const p=P.find(x=>x.id===it.id);const opts=[it.pick,p.song?(it.mode==="wave"?"Sound wave":"Spotify Code"):"",p.song==="tag"?(it.back==="name"?"Back: your name":"Back: song and artist"):"",it.accent&&("Accent "+it.accent),it.gift&&("Gift"+(it.giftNote?": "+it.giftNote:"")),...it.vals.filter((v,j)=>v&&p.f[j]&&showF(p.f[j],it))].filter(Boolean).join(", ");
       return `<div class="li"><b>${p.id} ${esc(p.name)} &times; ${it.qty}</b><span class="mono">${inr(p.price*it.qty)}</span><span class="opt">${esc(opts)}</span><button type="button" data-rm="${i}">Remove</button></div>`}).join("")
       +`<div class="total"><span>Total before shipping</span><span>${inr(total)}</span></div>`
       :`<p class="empty">Nothing here yet. Open a product and choose Add to order list.</p>`}
     <div class="spacer"></div>
-    ${cart.length?`<a class="btn red block" target="_blank" rel="noopener" href="${esc(wa(msg))}">Send list on WhatsApp</a><p class="note">Opens WhatsApp with this list written out. Nothing is charged here.</p>`:""}
+    ${cart.length?`${agreeBox("agreeList")}<a class="btn red block" id="listSend" target="_blank" rel="noopener" data-href="${esc(wa(msg))}" href="#">Send list on WhatsApp</a><p class="note">Opens WhatsApp with this list written out. Nothing is charged here.</p>`:""}
   </div>`;
+  paintListSend();
 }
+function paintListSend(){const a=$("listSend");if(!a)return;a.href=agreed?a.dataset.href:"#";a.setAttribute("aria-disabled",String(!agreed));a.tabIndex=agreed?0:-1}
 $("list").addEventListener("click",e=>{
   const t=e.target.closest("button");
   if(e.target===$("list")||(t&&t.hasAttribute("data-close"))){$("list").close();return}
   if(t&&t.dataset.rm){cart.splice(+t.dataset.rm,1);save();renderCount();renderList()}
 });
+
+
+/* ---------------- terms ---------------- */
+const TERMS=`<h2 id="tcTitle">Terms, replacements and privacy</h2><p class="upd">Last updated ${TERMS_DATE}</p>
+<p>These terms apply to every order placed with No Skips. By sending an order on WhatsApp you agree to them. Nothing here takes away rights you have under Indian consumer law.</p>
+<h3>1. Who we are</h3><p>No Skips is a small studio in Bengaluru, Karnataka, India that designs and 3D prints music pieces to order. This website is a catalogue. Orders, previews, payment and support all happen on WhatsApp at +91 74111 48303.</p>
+<h3>2. Orders and payment</h3><ul><li>Your order is confirmed only when we confirm it in the chat and receive full payment by UPI.</li><li>Prices are in Indian rupees and include printing and packing. Shipping is extra and is quoted in the chat before you pay.</li><li>We may decline or cancel an order before printing, for example if we cannot print it well, or if it uses content that is hateful, unlawful or someone else's logo or artwork without permission. If we cancel, you get a full refund.</li><li>Prices on the site can change. Your order keeps the price confirmed in the chat.</li></ul>
+<h3>3. Personalised pieces</h3><ul><li>You are responsible for the text, song, link and names you send. Please check the spelling.</li><li>For every personalised piece we send a preview. Once you approve it, we print exactly what you approved. A mistake in an approved preview is not a fault.</li><li><b>Spotify Codes</b> are made with Spotify's own code generator from the song you give us. We scan each code with a phone before it ships. A code scans only in the Spotify app. It keeps working as long as Spotify keeps the song and its code service. If Spotify removes the song or changes how codes work, that is outside our control and is not a fault in the piece.</li><li>If we cannot find your song on Spotify, we tell you in the chat before printing and offer the sound wave instead.</li><li><b>Sound waves</b> are an artistic picture of the song's loud and quiet parts, not a measurement.</li></ul>
+<h3>4. Cancellations</h3><p>You can cancel for a full refund until we start printing. Pieces are made to order for you, so once printing has started we cannot cancel or take the piece back.</p>
+<h3>5. Replacements within 48 hours of delivery</h3><p>We replace a piece that arrives broken, has a print fault, or is not what you approved. To claim:</p><ul><li>Message us on WhatsApp within <b>48 hours of delivery</b>, going by the delivery time on the courier tracking.</li><li>Send photos of the piece, the box and the shipping label, and an unboxing video. Without an unboxing video we may not be able to accept a claim for a broken or missing part.</li><li>Keep the piece and the packing until we reply.</li></ul><p>If the claim is accepted, we reprint the piece and ship it at our cost. If we cannot reprint it, we refund the price of that piece. Claims made after 48 hours are not accepted, except where the law requires otherwise.</p>
+<p>These are not faults: the fine layer lines, small seams and slight colour differences that come with 3D printing; damage from heat, drops, misuse or wear after delivery; and phones or cases outside the sizes listed for a product.</p>
+<h3>6. Shipping</h3><p>We share a dispatch date and a tracking link in the chat. Courier delays are outside our control. Please give a complete and correct address. If a parcel comes back because of a wrong address or a missed delivery, re-shipping is charged again.</p>
+<h3>7. Care and safety</h3><ul><li>Pieces are printed in PLA, a plant-based plastic that softens with heat. Keep them out of hot cars, direct summer sun, dishwashers and away from hot pans. Coasters are for cups and glasses, not for a pot or a mug straight off the boil.</li><li>Not a toy. Small parts, keep away from children under 3.</li><li>Not for direct contact with food.</li></ul>
+<h3>8. Designs, names and trademarks</h3><ul><li>The No Skips designs, models and files belong to No Skips. Please do not copy or sell them.</li><li>By sending a name, logo, photo or artwork you confirm you have the right to use it.</li><li>Song titles, artist names and trademarks belong to their owners. No Skips is an independent maker and is not affiliated with or endorsed by any artist, label or Spotify. Spotify and Spotify Codes are trademarks of Spotify AB.</li></ul>
+<h3>9. Our liability</h3><p>To the extent the law allows, our total liability for an order is limited to the amount you paid for it, and we are not liable for indirect losses. This does not limit liability that cannot be limited by law.</p>
+<h3>10. Privacy</h3><p>We use your name, phone number, address and order details only to make, deliver and support your order. We share your address and phone number with the courier and with no one else, and we never sell your data. Ask us in the chat to delete your details once your order is complete.</p>
+<h3>11. Complaints</h3><p>Grievance officer: Prathaam, owner, No Skips. WhatsApp +91 74111 48303. We acknowledge every complaint within 48 hours and aim to resolve it within one month.</p>
+<h3>12. Law</h3><p>These terms are governed by the laws of India. Courts in Bengaluru have jurisdiction, without affecting your right to approach a consumer commission. If we change these terms, the version in force when you ordered applies to your order.</p>`;
+function openTerms(){$("tcd").innerHTML=`<div class="tc"><button class="close" type="button" aria-label="Close" data-close>&times;</button>${TERMS}<p><button class="btn ghost" type="button" data-close>Close</button></p></div>`;if(!$("tcd").open)$("tcd").showModal()}
+$("tcd").addEventListener("click",e=>{const t=e.target.closest("button");if(e.target===$("tcd")||(t&&t.hasAttribute("data-close")))$("tcd").close()});
 
 /* ---------------- theme ---------------- */
 const root=document.documentElement;
@@ -821,6 +941,7 @@ $("themeBtn").addEventListener("click",()=>{const n=isDark()?"light":"dark";root
 
 /* ---------------- wiring ---------------- */
 document.addEventListener("click",e=>{
+  const tb=e.target.closest("[data-terms]");if(tb){e.preventDefault();openTerms();return}
   const o=e.target.closest("[data-open]");if(o&&!$("pd").open){openProduct(o.dataset.open);return}
   const b=e.target.closest("[data-build]");if(b)showBuild(b.dataset.build);
 });
@@ -832,6 +953,7 @@ function setView(v){if(v==="bp")root.dataset.view="bp";else delete root.dataset.
   document.querySelectorAll(".viewsw button").forEach(b=>b.setAttribute("aria-pressed",String(b.dataset.view===v)))}
 document.querySelector(".viewsw").addEventListener("click",e=>{const b=e.target.closest("button");if(b)setView(b.dataset.view)});
 window.addEventListener("hashchange",routeHash);
+if(location.hash==="#terms")openTerms();
 paintTheme();renderDrop();renderGrid();renderBuild();renderCount();routeHash();loadStock();
 </script>
 </body>
